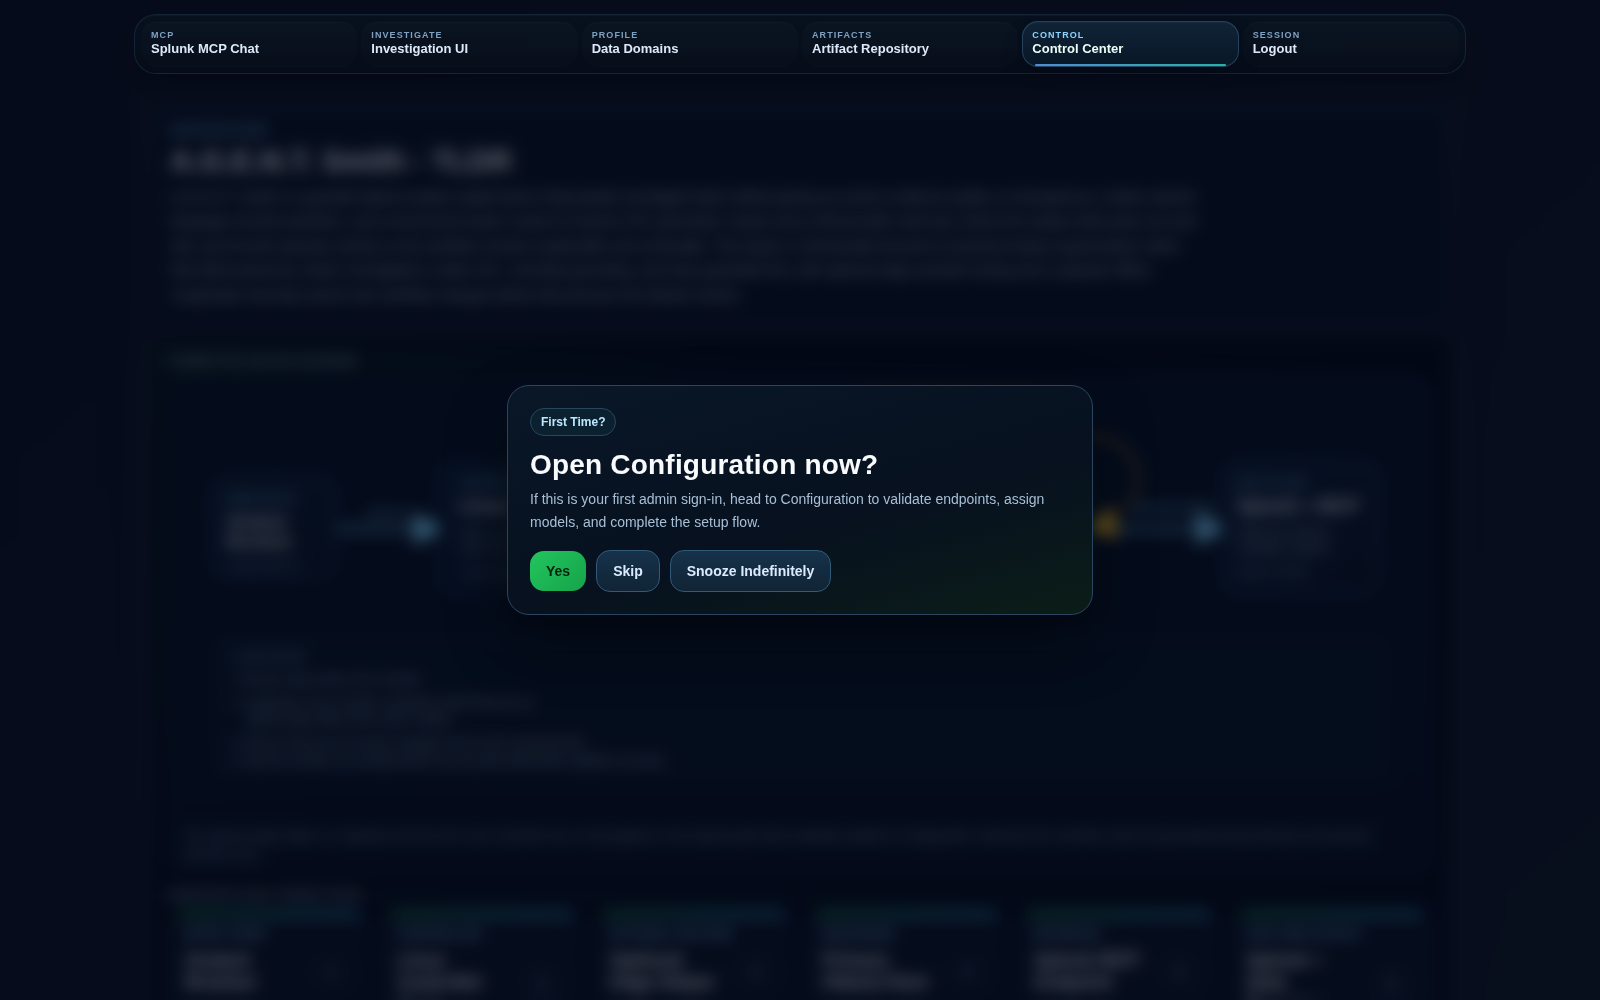
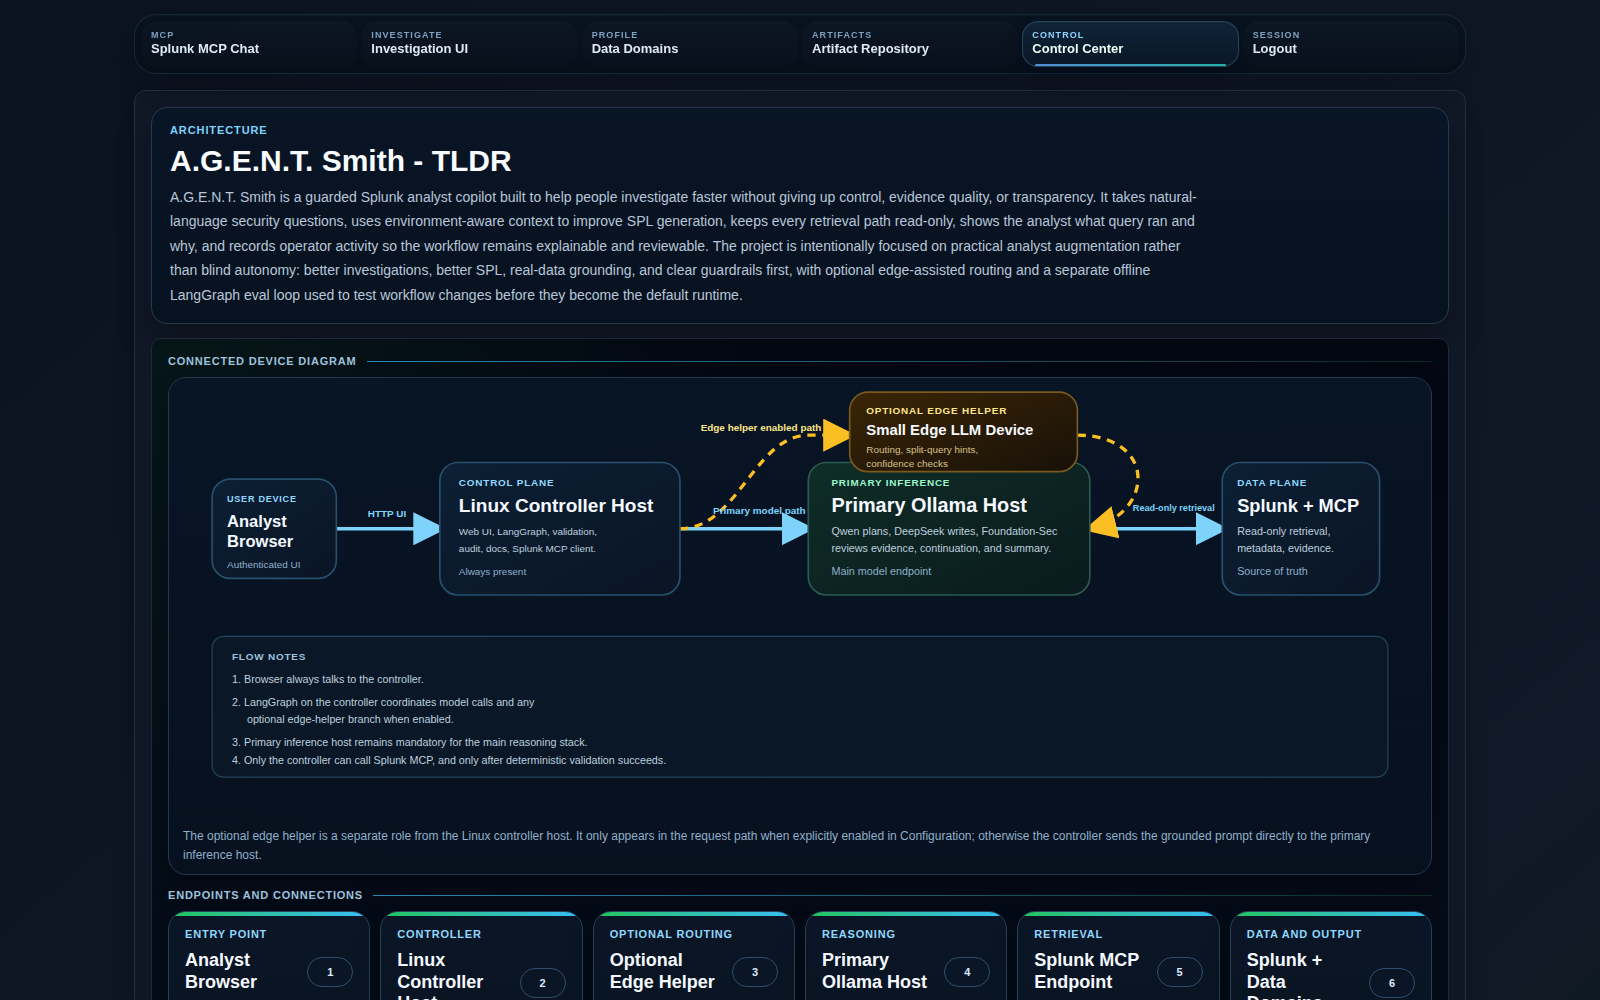
Refresh v1.2.1 screenshots

diff --git a/README.md b/README.md
@@ -62,6 +62,11 @@ These screenshots reflect the current `v1.2.1` interface.
 
 ![A.G.E.N.T. Smith v1.2.1 architecture view](docs/images/screenshots/v1.2.1/agtsmith-v1.2.1-architecture.png)
 
+### Data Domains And Personalization
+`v1.2.1` environment-aware Data Domains view showing the Linux domain expanded into Apache `access_combined` telemetry with field inventory used for query grounding and personalization.
+
+![A.G.E.N.T. Smith v1.2.1 Data Domains personalization view](docs/images/screenshots/v1.2.1/agtsmith-v1.2.1-data-domains.png)
+
 ## How It Works
 The default SPL path is a split-role pipeline:
 